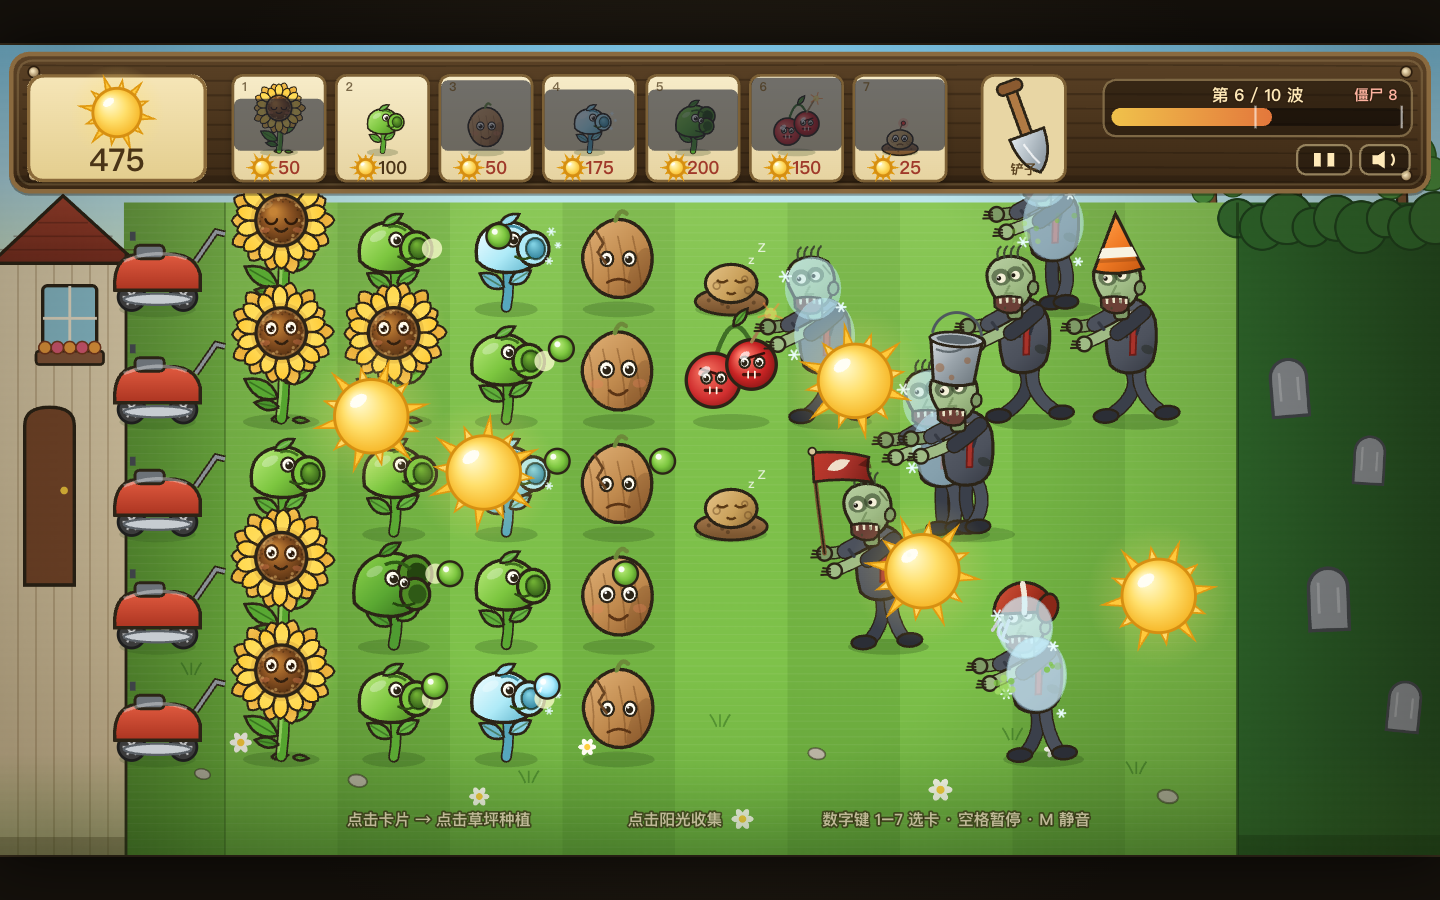
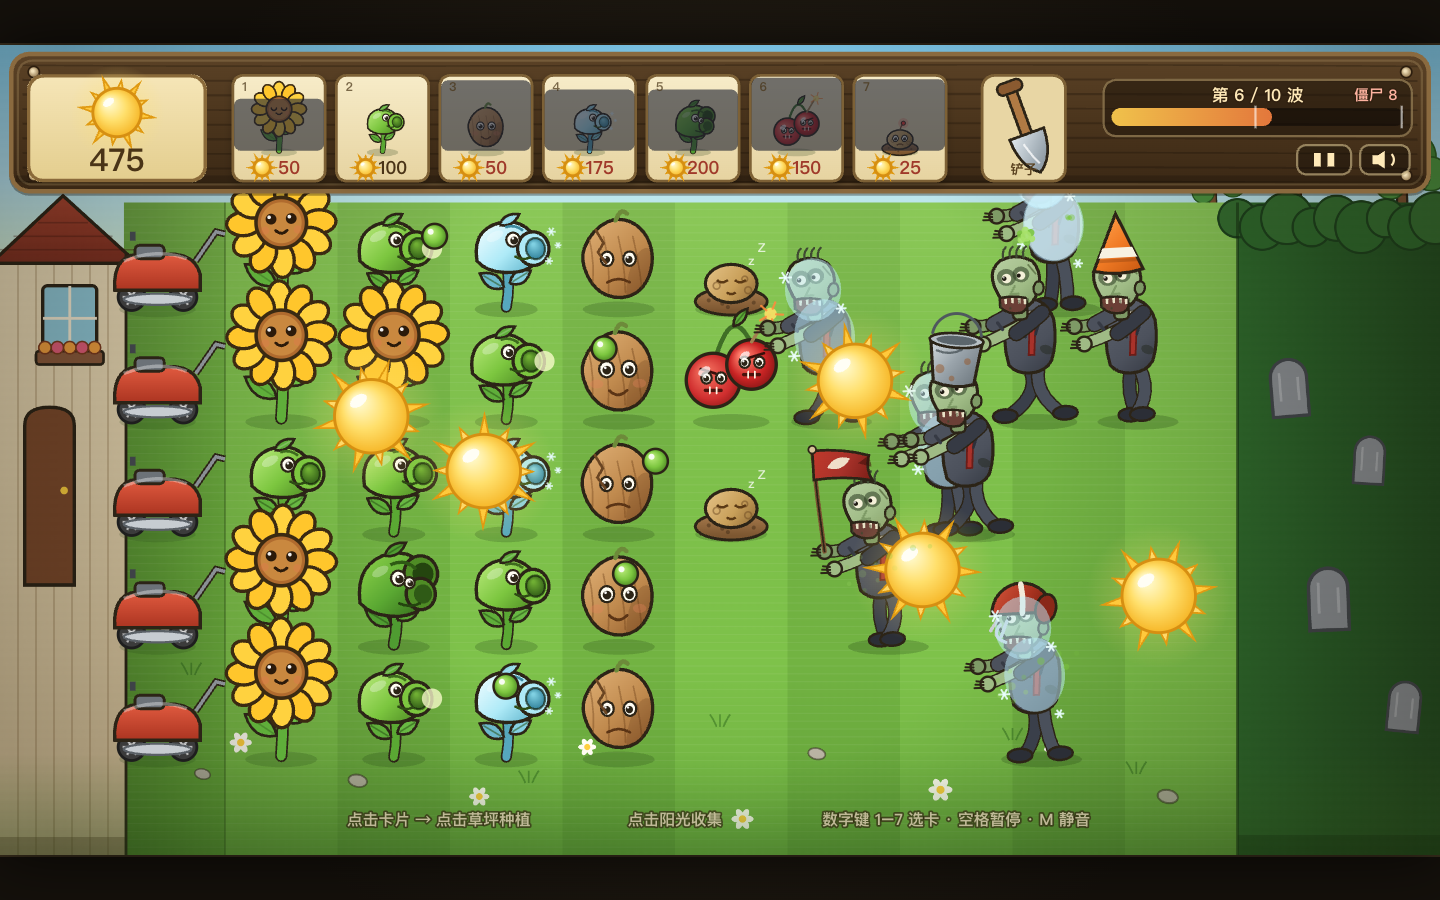
向日葵改为简笔卡通风
- 单层 12 片扁平花瓣，去掉渐变/光晕/花籽细节
- 粗描边 + 两圈扁平花盘，豆豆眼 + 细线微笑 + 圆形腮红
- 眨眼、受伤、惊慌都换成更简洁的表达

diff --git a/js/art.js b/js/art.js
@@ -955,259 +955,113 @@
     ctx.restore();
   }
 
-  /** 向日葵花瓣：从花盘边缘向外生长的圆头花瓣（本地坐标，沿 -y 方向） */
-  function sunPetal(ctx, ang, r0, r1, w, c1, c2) {
-    ctx.save();
-    ctx.rotate(ang);
-    const g = ctx.createLinearGradient(0, -r0, 0, -r1);
-    g.addColorStop(0, c1);
-    g.addColorStop(1, c2);
-    const mid = r0 + (r1 - r0) * 0.55;
-    ctx.beginPath();
-    ctx.moveTo(0, -r0 + 1);
-    ctx.bezierCurveTo(-w, -mid + 4, -w * 0.92, -r1 + 3, 0, -r1);
-    ctx.bezierCurveTo(w * 0.92, -r1 + 3, w, -mid + 4, 0, -r0 + 1);
-    ctx.closePath();
-    ctx.fillStyle = g;
-    ctx.fill();
-    ctx.strokeStyle = OUT;
-    ctx.lineWidth = 1.9;
-    ctx.stroke();
-    ctx.restore();
-  }
-
+  /** 简笔向日葵：扁平色块 + 粗描边 + 豆豆眼 */
   function pSunflower(ctx, o) {
     const t = o.t || 0;
     const hp = o.hpRatio == null ? 1 : o.hpRatio;
     const low = hp < 0.6;
     const panic = hp < 0.3;
-    const sway = Math.sin(t * 1.35) * 0.045 + (low ? 0.13 : 0);
-    const breathe = 1 + Math.sin(t * 1.35 + 0.7) * 0.012;
+    const sway = Math.sin(t * 1.3) * 0.05 + (low ? 0.12 : 0);
+    const breathe = 1 + Math.sin(t * 1.3 + 0.6) * 0.01;
 
-    groundShadow(ctx, 34, 0.22);
-    // 根部草叶
-    leaf(ctx, -9, -3, 15, 6, -0.12, '#4f9c31');
-    leaf(ctx, 10, -3, 14, 5, 0.08, '#5fb137');
+    groundShadow(ctx, 32, 0.2);
+    // 茎
+    stem(ctx, 0, -4, 3, -42, 0, -74, 8, '#5fae3a');
+    // 两片简笔叶子
+    leaf(ctx, -4, -22, 34, 15, -2.55, '#5fae3a', 'rgba(30, 62, 16, 0.28)');
+    leaf(ctx, 4, -34, 29, 13, -0.5, '#6cbb42', 'rgba(30, 62, 16, 0.28)');
 
-    // 茎与高光
-    stem(ctx, 0, -4, 5, -42, 0, -78, 8, '#55a52f');
     ctx.save();
-    ctx.beginPath();
-    ctx.moveTo(-2.5, -8);
-    ctx.quadraticCurveTo(2.5, -44, -1.5, -74);
-    ctx.strokeStyle = 'rgba(190, 235, 130, 0.55)';
-    ctx.lineWidth = 2.4;
-    ctx.lineCap = 'round';
-    ctx.stroke();
-    ctx.restore();
-
-    // 三片大叶子
-    leaf(ctx, -3, -22, 34, 15, -2.62, '#58a832', 'rgba(30, 75, 15, 0.55)');
-    leaf(ctx, 3, -36, 30, 13, -0.48, '#68bd3e', 'rgba(30, 75, 15, 0.5)');
-    leaf(ctx, -2, -14, 22, 9, -2.95, '#4a942c');
-
-    // 头部
-    ctx.save();
-    ctx.translate(0, -80);
+    ctx.translate(0, -78);
     ctx.rotate(sway);
     ctx.scale(breathe, breathe);
 
-    // 花瓣后的暖光晕
-    const halo = ctx.createRadialGradient(0, 0, 14, 0, 0, 48);
-    halo.addColorStop(0, 'rgba(255, 232, 130, 0.3)');
-    halo.addColorStop(0.62, 'rgba(255, 222, 110, 0.1)');
-    halo.addColorStop(1, 'rgba(255, 222, 110, 0)');
-    ctx.beginPath();
-    ctx.arc(0, 0, 48, 0, TAU);
-    ctx.fillStyle = halo;
-    ctx.fill();
-
-    // 后层花瓣（深金，稍长；长度和颜色带一点自然差异）
-    for (let i = 0; i < 14; i++) {
-      const a = (i / 14) * TAU + Math.PI / 14;
-      const len = 45.5 + Math.sin(i * 2.3) * 2.2;
-      sunPetal(ctx, a, 19, len, 9.4, '#dd9824', i % 2 ? '#f2ba46' : '#f6c352');
-    }
-    // 前层花瓣（亮黄，交错）
-    for (let i = 0; i < 14; i++) {
-      const a = (i / 14) * TAU;
-      const len = 40.5 + Math.cos(i * 2.7) * 2;
-      sunPetal(ctx, a, 17, len, 9, '#ffe066', i % 2 ? '#ffca35' : '#ffd84d');
-    }
-    // 花瓣基部阴影，压出层次
-    ctx.beginPath();
-    ctx.arc(0, 0, 27, 0, TAU);
-    ctx.fillStyle = 'rgba(160, 95, 10, 0.18)';
-    ctx.fill();
-
-    // 花盘
-    const discR = 22.5;
-    const dg = ctx.createRadialGradient(-7, -8, 3, 0, 0, discR + 2);
-    dg.addColorStop(0, '#c58336');
-    dg.addColorStop(0.45, '#8a5222');
-    dg.addColorStop(1, '#4a290e');
-    ctx.beginPath();
-    ctx.arc(0, 0, discR, 0, TAU);
-    ctx.fillStyle = dg;
-    ctx.fill();
-    ctx.strokeStyle = OUT;
-    ctx.lineWidth = 2.8;
-    ctx.stroke();
-    // 花盘内圈
-    ctx.beginPath();
-    ctx.arc(0, 0, discR - 2.4, 0, TAU);
-    ctx.strokeStyle = 'rgba(255, 205, 120, 0.28)';
-    ctx.lineWidth = 1.6;
-    ctx.stroke();
-
-    // 葵花籽：黄金角螺旋
-    ctx.save();
-    ctx.beginPath();
-    ctx.arc(0, 0, discR - 2, 0, TAU);
-    ctx.clip();
-    for (let i = 0; i < 40; i++) {
-      // 只在外圈铺籽，给脸留出干净区域
-      const rad = 15.5 + Math.sqrt(i / 40) * (discR - 17.5);
-      const a = i * 2.399963;
-      const sx = Math.cos(a) * rad;
-      const sy = Math.sin(a) * rad;
+    // 一圈扁平面花瓣
+    for (let i = 0; i < 12; i++) {
+      ctx.save();
+      ctx.rotate((i / 12) * TAU);
       ctx.beginPath();
-      ctx.arc(sx, sy, i % 3 === 0 ? 1.4 : 0.95, 0, TAU);
-      ctx.fillStyle = i % 3 === 0 ? 'rgba(255, 214, 130, 0.4)' : 'rgba(28, 16, 6, 0.32)';
+      ctx.ellipse(0, -33.5, 10.5, 15.2, 0, 0, TAU);
+      ctx.fillStyle = i % 2 ? '#ffc62c' : '#ffd23f';
       ctx.fill();
-    }
-    ctx.restore();
-
-    // 表情（简洁卡通脸：小圆眼 + 高光 + 小张嘴，不再用眉毛和舌头）
-    const blink = !low && (t % 4.6) < 0.12;
-    const eyeY = -4.5;
-    const look = low ? 0.35 : 0.18;
-    const drawEye = (x, y, w, h, pr) => {
-      ctx.beginPath();
-      ctx.ellipse(x, y, w, h, 0, 0, TAU);
-      ctx.fillStyle = '#fff9e8';
-      ctx.fill();
-      ctx.lineWidth = 2;
-      ctx.strokeStyle = '#4a2a10';
+      ctx.lineWidth = 3;
+      ctx.strokeStyle = '#3b2a12';
       ctx.stroke();
-      const px = x;
-      const py = y + look * h * 0.45;
-      ctx.beginPath();
-      ctx.arc(px, py, pr, 0, TAU);
-      ctx.fillStyle = '#2a190b';
-      ctx.fill();
-      // 双高光
-      ctx.beginPath();
-      ctx.arc(px - w * 0.3, py - h * 0.3, w * 0.26, 0, TAU);
-      ctx.fillStyle = 'rgba(255, 255, 255, 0.95)';
-      ctx.fill();
-      ctx.beginPath();
-      ctx.arc(px + w * 0.24, py + h * 0.2, w * 0.13, 0, TAU);
-      ctx.fillStyle = 'rgba(255, 255, 255, 0.7)';
-      ctx.fill();
-    };
+      ctx.restore();
+    }
+
+    // 花盘：两圈扁平色，给脸留干净底色
+    ctx.beginPath();
+    ctx.arc(0, 0, 22.5, 0, TAU);
+    ctx.fillStyle = '#b06b2e';
+    ctx.fill();
+    ctx.lineWidth = 3.2;
+    ctx.strokeStyle = '#3b2a12';
+    ctx.stroke();
+    ctx.beginPath();
+    ctx.arc(0, 0, 18.2, 0, TAU);
+    ctx.fillStyle = '#c9883f';
+    ctx.fill();
+
+    // 豆豆眼
+    const blink = !low && (t % 4.4) < 0.11;
     if (blink) {
-      ctx.strokeStyle = '#2f1a0a';
-      ctx.lineWidth = 2.2;
+      ctx.strokeStyle = '#2b1a0a';
+      ctx.lineWidth = 2.6;
       ctx.lineCap = 'round';
-      ctx.beginPath();
-      ctx.arc(-8.8, eyeY + 2.4, 5.2, 0.2, Math.PI - 0.2);
-      ctx.stroke();
-      ctx.beginPath();
-      ctx.arc(8.8, eyeY + 2.4, 5.2, 0.2, Math.PI - 0.2);
-      ctx.stroke();
-    } else if (panic) {
-      drawEye(-9.2, eyeY, 6.3, 7.3, 3.1);
-      drawEye(9.2, eyeY, 6.3, 7.3, 3.1);
-    } else if (low) {
-      drawEye(-8.8, eyeY, 5.2, 5.9, 2.7);
-      drawEye(8.8, eyeY, 5.2, 5.9, 2.7);
-      // 半垂眼皮
-      ctx.strokeStyle = '#3a210c';
-      ctx.lineWidth = 2;
-      ctx.lineCap = 'round';
-      ctx.beginPath();
-      ctx.moveTo(-13.6, eyeY - 1.8);
-      ctx.quadraticCurveTo(-8.8, eyeY - 0.2, -4, eyeY - 1.8);
-      ctx.moveTo(13.6, eyeY - 1.8);
-      ctx.quadraticCurveTo(8.8, eyeY - 0.2, 4, eyeY - 1.8);
-      ctx.stroke();
+      ctx.beginPath(); ctx.arc(-9, -2.5, 4.6, 0.15, Math.PI - 0.15); ctx.stroke();
+      ctx.beginPath(); ctx.arc(9, -2.5, 4.6, 0.15, Math.PI - 0.15); ctx.stroke();
     } else {
-      drawEye(-8.8, eyeY, 5.6, 6.4, 2.9);
-      drawEye(8.8, eyeY, 5.6, 6.4, 2.9);
-    }
-
-    // 受伤/惊慌时才有眉毛，正常状态保持干净
-    ctx.strokeStyle = '#3a210c';
-    ctx.lineWidth = 2;
-    ctx.lineCap = 'round';
-    if (panic) {
-      ctx.beginPath();
-      ctx.moveTo(-14, eyeY - 12);
-      ctx.quadraticCurveTo(-9, eyeY - 15, -4.5, eyeY - 12.5);
-      ctx.moveTo(14, eyeY - 12);
-      ctx.quadraticCurveTo(9, eyeY - 15, 4.5, eyeY - 12.5);
-      ctx.stroke();
-    } else if (low) {
-      ctx.beginPath();
-      ctx.moveTo(-13.5, eyeY - 9.5);
-      ctx.quadraticCurveTo(-9, eyeY - 12.5, -4.5, eyeY - 11);
-      ctx.moveTo(13.5, eyeY - 9.5);
-      ctx.quadraticCurveTo(9, eyeY - 12.5, 4.5, eyeY - 11);
-      ctx.stroke();
+      const er = panic ? 5.4 : 4.8;
+      const ey = low ? -1.5 : -3.5;
+      [-9, 9].forEach((x) => {
+        ctx.beginPath();
+        ctx.arc(x, ey, er, 0, TAU);
+        ctx.fillStyle = '#2b1a0a';
+        ctx.fill();
+        ctx.beginPath();
+        ctx.arc(x - er * 0.34, ey - er * 0.36, er * 0.34, 0, TAU);
+        ctx.fillStyle = 'rgba(255, 255, 255, 0.92)';
+        ctx.fill();
+      });
+      if (low) {
+        ctx.strokeStyle = 'rgba(70, 36, 12, 0.5)';
+        ctx.lineWidth = 2;
+        ctx.beginPath(); ctx.arc(-9, ey + er + 1.2, 4.4, 0.25, Math.PI - 0.25); ctx.stroke();
+        ctx.beginPath(); ctx.arc(9, ey + er + 1.2, 4.4, 0.25, Math.PI - 0.25); ctx.stroke();
+      }
     }
 
     // 腮红
     if (!panic) {
-      ctx.fillStyle = 'rgba(236, 132, 92, 0.32)';
-      ctx.beginPath(); ctx.ellipse(-14.5, 8.5, 4.4, 2.4, -0.12, 0, TAU); ctx.fill();
-      ctx.beginPath(); ctx.ellipse(14.5, 8.5, 4.4, 2.4, 0.12, 0, TAU); ctx.fill();
+      ctx.fillStyle = 'rgba(230, 118, 78, 0.32)';
+      ctx.beginPath(); ctx.arc(-14.5, 6.5, 3.6, 0, TAU); ctx.fill();
+      ctx.beginPath(); ctx.arc(14.5, 6.5, 3.6, 0, TAU); ctx.fill();
     }
 
-    // 嘴巴
+    // 嘴
+    ctx.strokeStyle = '#2b1a0a';
+    ctx.lineWidth = 2.6;
+    ctx.lineCap = 'round';
     if (panic) {
       ctx.beginPath();
-      ctx.ellipse(0, 11.5, 3.4, 4.4, 0, 0, TAU);
-      ctx.fillStyle = '#33200f';
+      ctx.ellipse(0, 10.5, 3.4, 4.6, 0, 0, TAU);
+      ctx.fillStyle = '#2b1a0a';
       ctx.fill();
     } else if (low) {
       ctx.beginPath();
-      ctx.moveTo(-5.4, 11.6);
-      ctx.quadraticCurveTo(-2.7, 9.4, 0, 11.4);
-      ctx.quadraticCurveTo(2.7, 13.4, 5.4, 11);
-      ctx.strokeStyle = '#2f1a08';
-      ctx.lineWidth = 2.2;
+      ctx.moveTo(-5, 10.5);
+      ctx.quadraticCurveTo(0, 7.5, 5, 10.5);
       ctx.stroke();
     } else {
-      // 干净的细线微笑
       ctx.beginPath();
-      ctx.moveTo(-5.2, 7.2);
-      ctx.quadraticCurveTo(0, 12.6, 5.2, 7.2);
-      ctx.strokeStyle = '#33200f';
-      ctx.lineWidth = 2.3;
-      ctx.lineCap = 'round';
+      ctx.moveTo(-5.2, 6.8);
+      ctx.quadraticCurveTo(0, 12, 5.2, 6.8);
       ctx.stroke();
-    }
-
-    // 花盘高光
-    ctx.beginPath();
-    ctx.ellipse(-12, -13.5, 5, 2.6, -0.45, 0, TAU);
-    ctx.fillStyle = 'rgba(255, 226, 150, 0.22)';
-    ctx.fill();
-
-    // 掉血时飘落的花粉
-    if (low) {
-      ctx.fillStyle = 'rgba(255, 220, 120, 0.6)';
-      for (let i = 0; i < 3; i++) {
-        const k = (t * 0.6 + i * 0.33) % 1;
-        ctx.beginPath();
-        ctx.arc(-26 + i * 9, 30 + k * 26, 1.6, 0, TAU);
-        ctx.fill();
-      }
     }
     ctx.restore();
 
-    plantFlash(ctx, o.flash, 0, -80, 34, 32);
+    plantFlash(ctx, o.flash, 0, -78, 34, 32);
   }
 
   function peaHead(ctx, o, cfg) {
